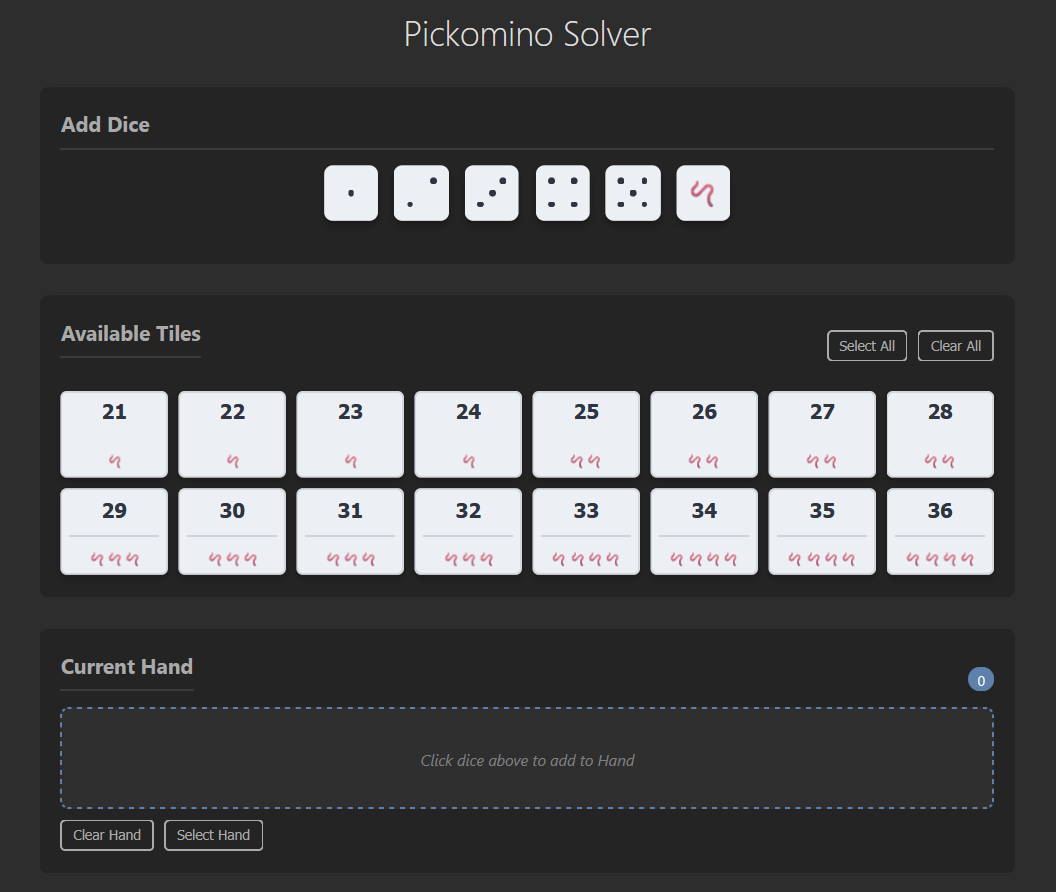
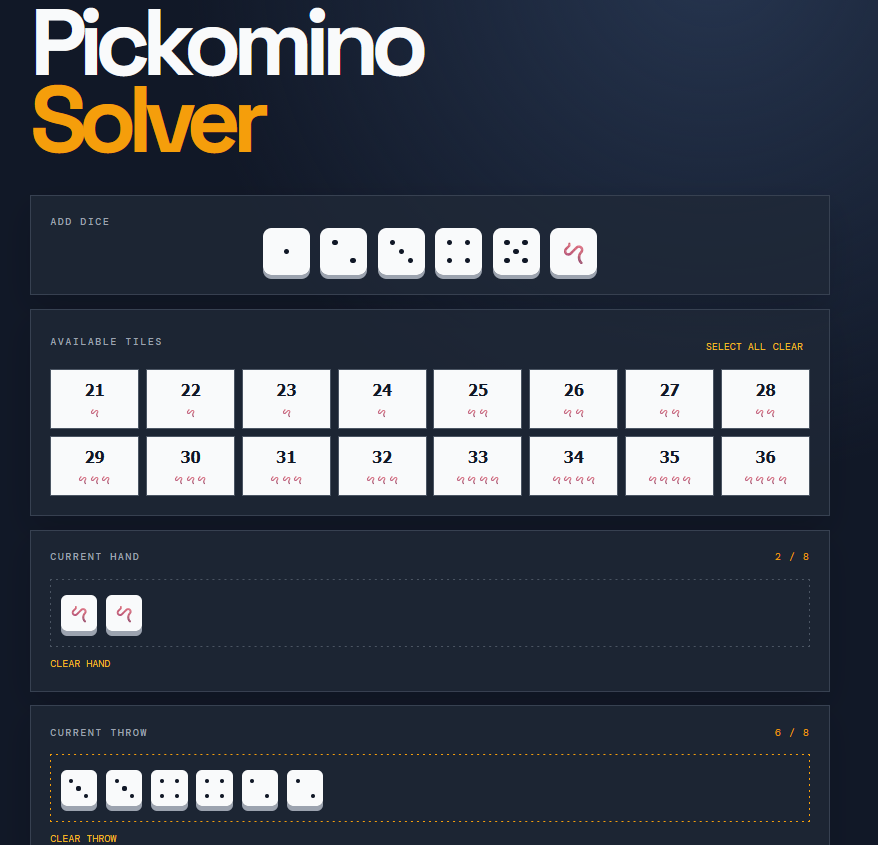
style: Change layout of the frontend

diff --git a/frontend/src/App.tsx b/frontend/src/App.tsx
@@ -91,15 +91,11 @@ export default function App() {
   return (
     <main className="container">
       <header>
-        <p className="eyebrow">Rust / WebAssembly</p>
         <h1>
           Pickomino
           <br />
           <em>Solver</em>
         </h1>
-        <p className="lede">
-          Find the highest-value move without leaving your browser.
-        </p>
       </header>
       <form onSubmit={submit}>
         <section className="section dice-section">
@@ -200,7 +196,7 @@ export default function App() {
         <section className="section results">
           <div className="section-heading">
             <h2>Recommended actions</h2>
-            <span className="badge">{results.length} options</span>
+            <span className="badge">Expected scores</span>
           </div>
           {results.map((result) => (
             <div className="result" key={result.action}>
